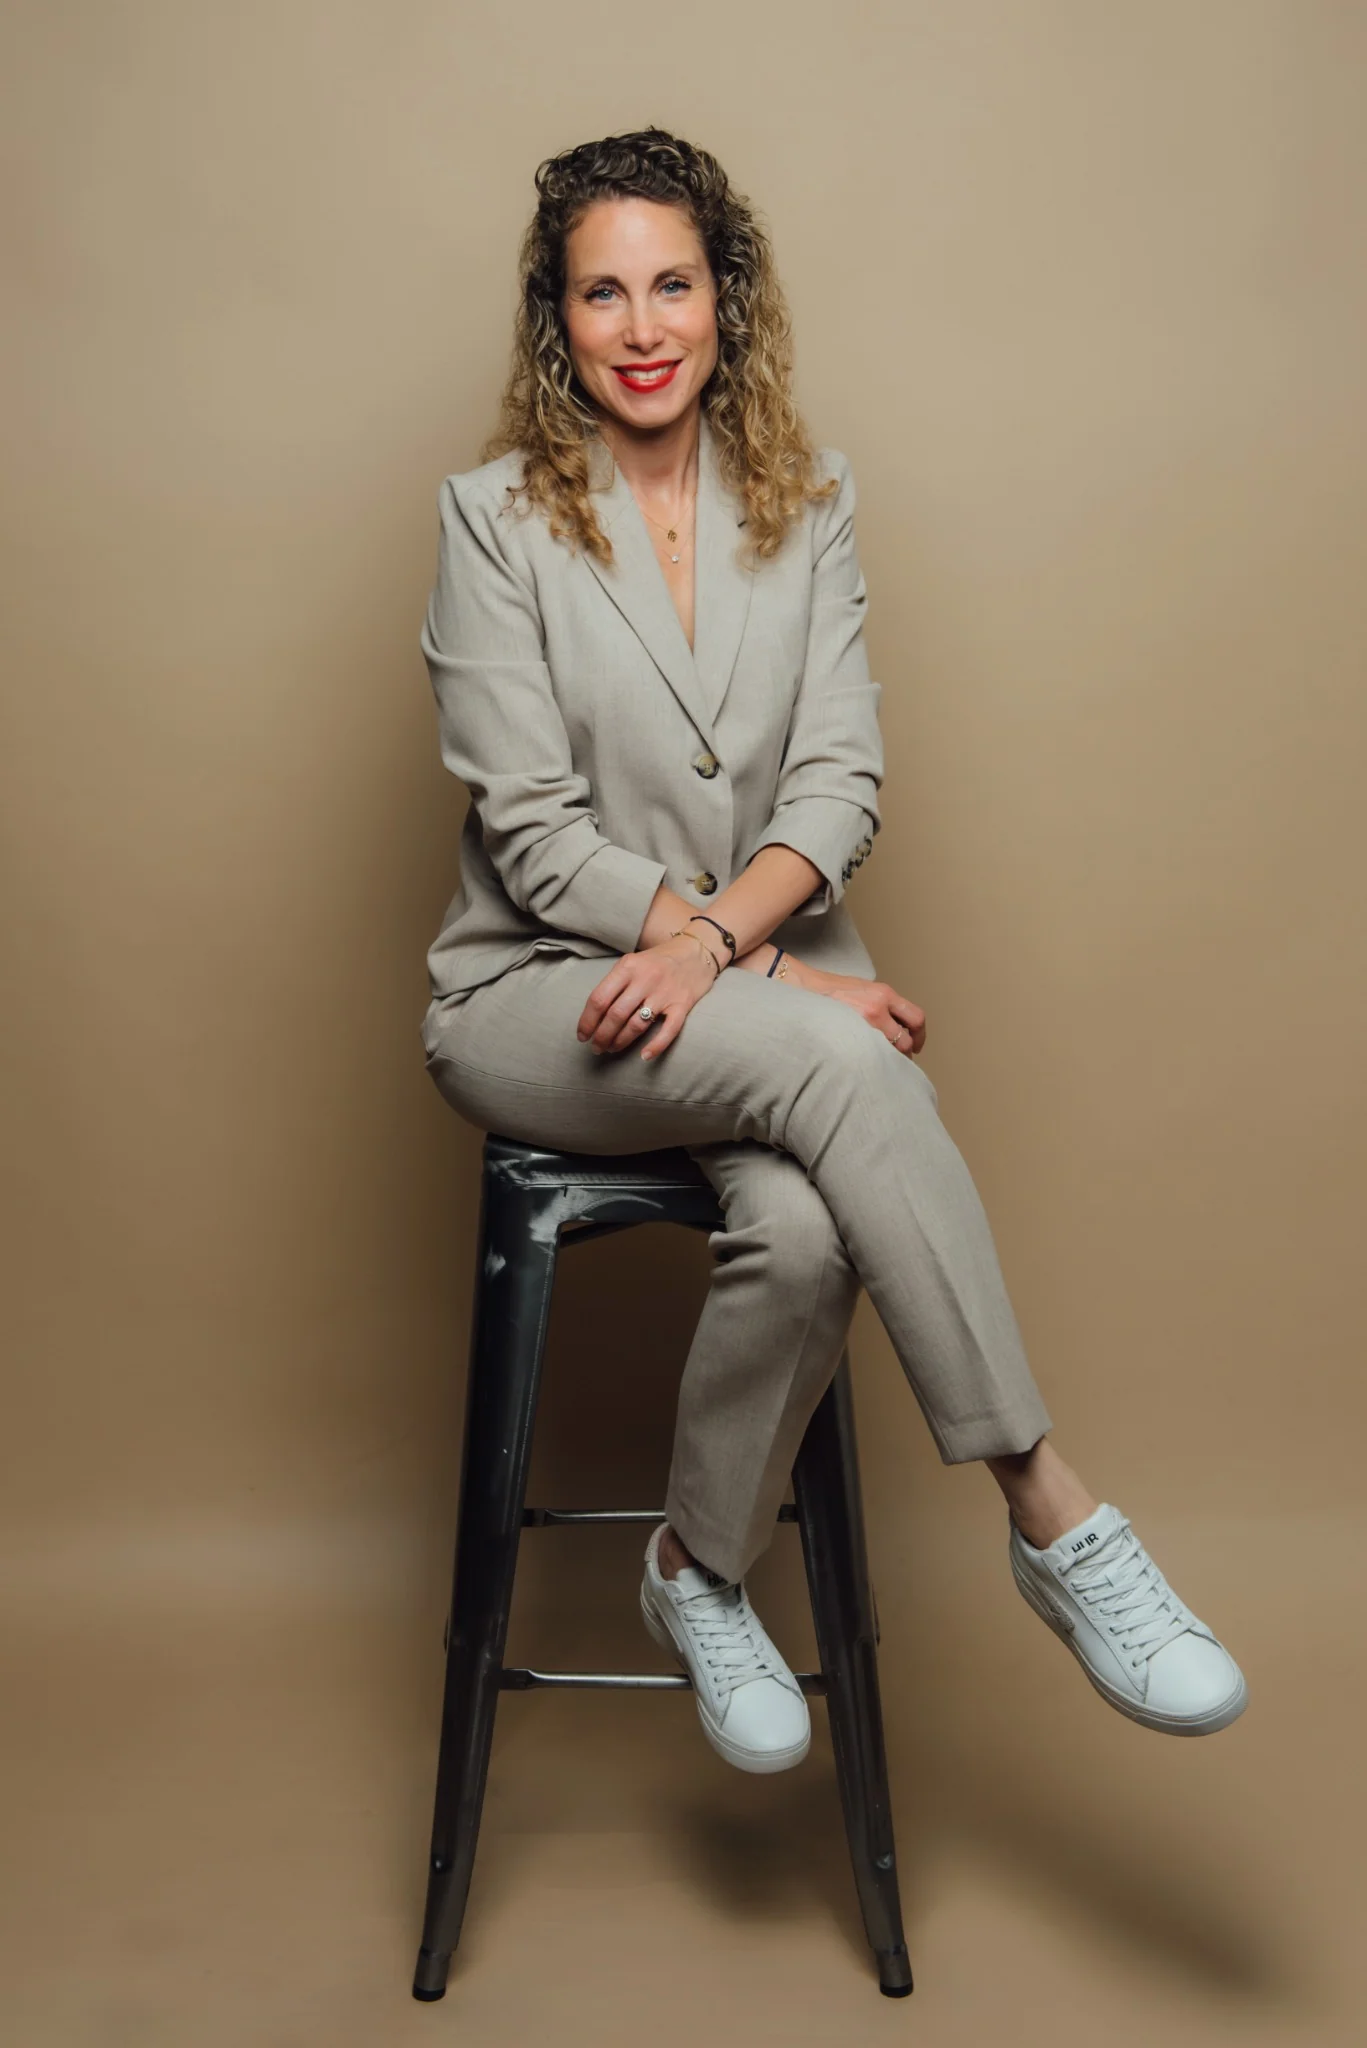
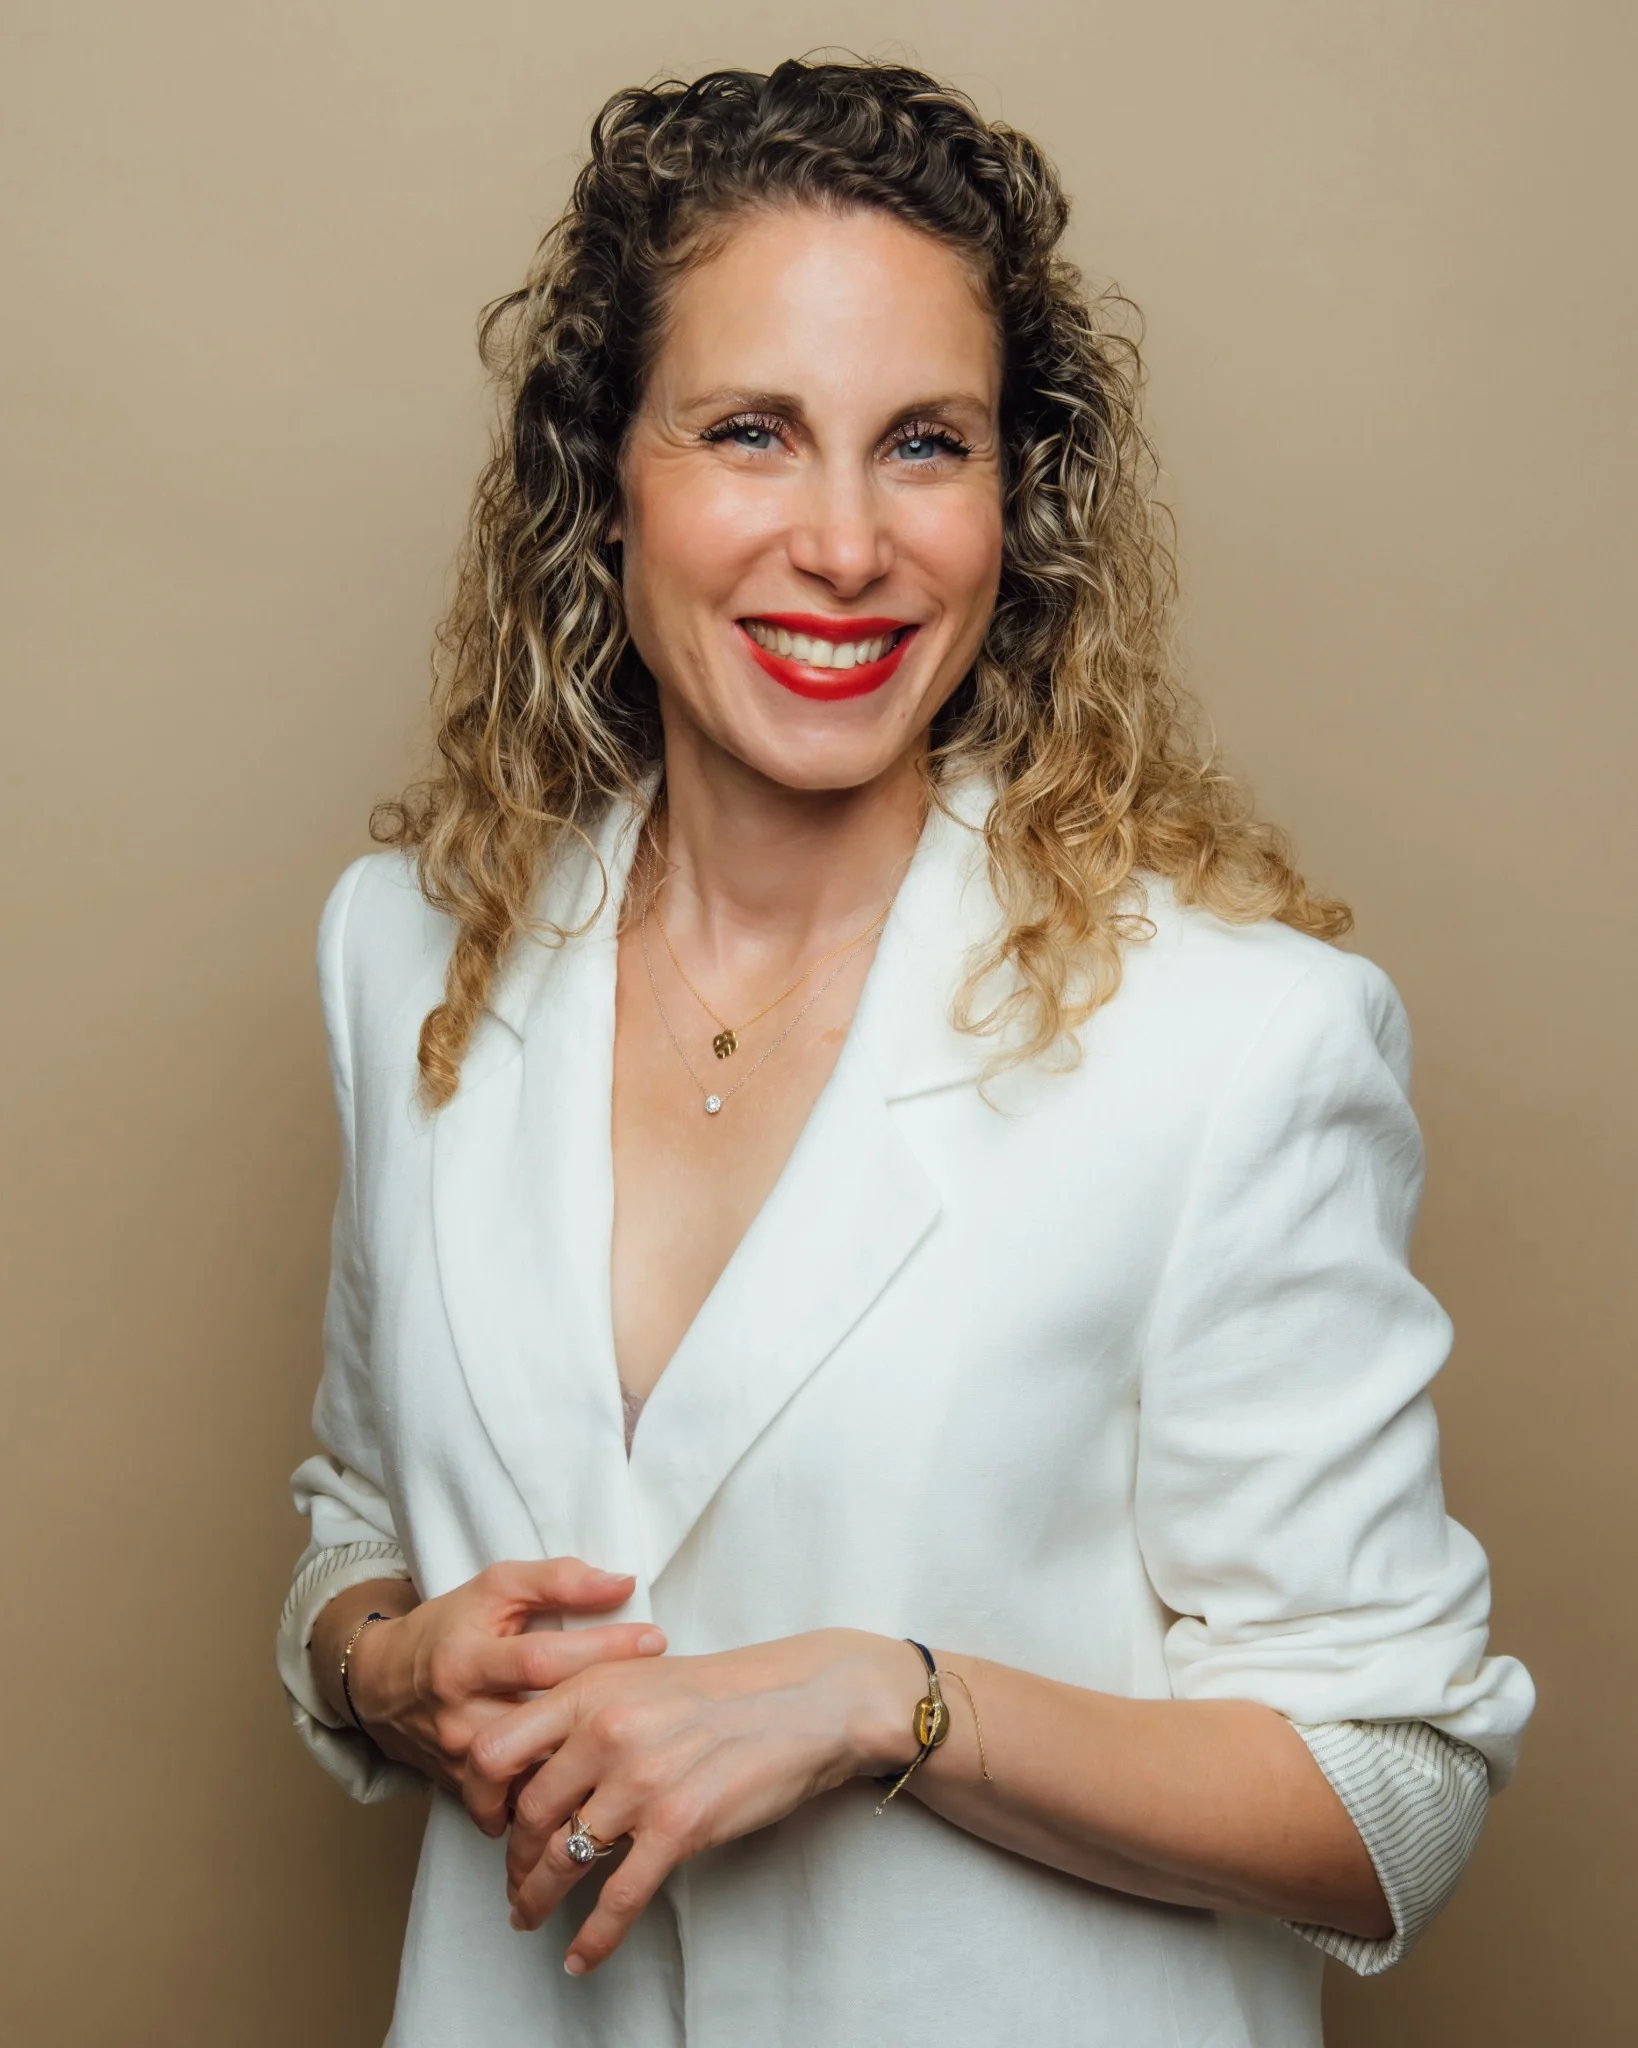
feat: Update Sandra portraits across site

diff --git a/src/app/seances/page.js b/src/app/seances/page.js
@@ -3,6 +3,7 @@
 // Imports de base : React, hooks, libraries essentielles
 import React from "react";
 import Link from "next/link";
+import Image from "next/image";
 import { SITE_URL  } from "@/config/site";
 // Bibliothèques tierces
 import { gsap } from "gsap";
@@ -45,36 +46,84 @@ export default function Seances() {
 					textColor="#000"
 					className="my-16 px-6"
 				>
-					<h2 className="text-xl font-bold mb-4">Jours de consultation et Tarifs</h2>
-					<h3 className="text-l font-bold">Jours de consultation</h3>
-					<p className="pt-5 mb-4">
-						Je vous accueille sur rendez-vous, mardi, mercredi, vendredi et samedi.<br />En présentiel, par téléphone ou en visio (WhatsApp).
-					</p>
-					<h3 className="text-l font-bold mb-4">Tarifs</h3>
-					<ul>
-						<li>Thérapie individuelle : 85 €. Un premier échange téléphonique de 30 min est offert</li>
-						<li>Thérapie de couple : 160 €</li>
-						<li>Thérapie de groupe (minimum 3 personnes) : me contacter</li>
-						<li>Thérapie famille : 180 €</li>
-					</ul>
-					<p className="pt-5">
-						Les séances peuvent se faire en cabinet ou en visioconférence
-						(WhatsApp), selon vos préférences.
-						<br />
-						Pour plus d’informations ou pour prendre rendez-vous, n’hésitez pas
-						à me contacter via le formulaire en ligne ou par téléphone au
-						<br/>06 24 18 23 02.
-					</p>
-					<Link href="/contact">
-						<Button
-							text="Me contacter"
-							textColor="#2C254D"
-							bgColor="#FFA500"
-							hoverTextColor="#2C254D"
-							hoverBgColor="#FFA500"
-							className="mt-6"
-						/>
-					</Link>
+					<div className="
+						flex flex-col
+						lg:flex-row
+						items-center
+						lg:items-start
+						gap-10 lg:gap-16
+						max-w-5xl mx-auto
+					">
+						
+						{/* Portrait */}
+						<div className="
+							relative
+							w-[220px] h-[220px]
+							md:w-[280px] md:h-[280px]
+							lg:w-[340px] lg:h-[340px]
+							shrink-0
+							overflow-hidden
+							rounded-3xl
+						">
+							<Image
+								src="/images/seances/sandra-bondon-seances.webp"
+								alt="Sandra Bondon, psychopraticienne et hypnothérapeute à Saint-Germain-en-Laye"
+								fill
+								sizes="(min-width: 1024px) 340px, (min-width: 768px) 280px, 220px"
+								className="object-cover"
+							/>
+						</div>
+
+						{/* Informations */}
+						<div className="flex-1">
+							<h2 className="text-xl font-bold mb-4">
+								Jours de consultation et Tarifs
+							</h2>
+
+							<h3 className="text-l font-bold">
+								Jours de consultation
+							</h3>
+
+							<p className="pt-5 mb-4">
+								Je vous accueille sur rendez-vous, mardi, mercredi, vendredi et samedi.
+								<br />
+								En présentiel, par téléphone ou en visio (WhatsApp).
+							</p>
+
+							<h3 className="text-l font-bold mb-4">
+								Tarifs
+							</h3>
+
+							<ul>
+								<li>Thérapie individuelle : 85 €. Un premier échange téléphonique de 30 min est offert</li>
+								<li>Thérapie de couple : 160 €</li>
+								<li>Thérapie de groupe (minimum 3 personnes) : me contacter</li>
+								<li>Thérapie famille : 180 €</li>
+							</ul>
+
+							<p className="pt-5">
+								Les séances peuvent se faire en cabinet ou en visioconférence
+								(WhatsApp), selon vos préférences.
+								<br />
+								Pour plus d’informations ou pour prendre rendez-vous, n’hésitez pas
+								à me contacter via le formulaire en ligne ou par téléphone au
+								<br />
+								06 24 18 23 02.
+							</p>
+
+							<Link href="/contact">
+								<Button
+									text="Me contacter"
+									textColor="#2C254D"
+									bgColor="#FFA500"
+									hoverTextColor="#2C254D"
+									hoverBgColor="#FFA500"
+									className="mt-6"
+								/>
+							</Link>
+						</div>
+
+					</div>
 				</FadeInSectionAnimation>
 
 				{/* Section Cabinet et Google Maps */}

diff --git a/src/app/coaching/page.js b/src/app/coaching/page.js
@@ -21,9 +21,6 @@ export default function SolutionsPourVosCollaborateurs() {
 					<p className="text-center text-xl tracking-widest text-gray-500 mb-8">
 						Sandra Bondon | Psychopraticienne - Hypnothérapeute - Coach
 					</p>
-					{/*OLD <p className="text-center font-semibold mb-12">
-  						Sandra Bondon, psychopraticienne, hypnothérapeute et coach, accompagne professionnels et particuliers en cabinet à Saint-Germain-en-Laye ou sur site.
-					</p> */}
 
 					{/* Chapeau SEO (résumé page) */}
 					<p className="text-center mb-12">
@@ -34,9 +31,17 @@ export default function SolutionsPourVosCollaborateurs() {
 
 					{/* Section 1 : Hero */}
 					<section className="flex flex-col items-center gap-6 md:flex-row md:items-start md:gap-10 md:justify-start">
-						<div className="relative w-[200px] h-[240px] md:w-[260px] md:h-[320px] lg:w-[300px] lg:h-[360px] overflow-hidden rounded-xl md:rounded-s-full shrink-0">
+						<div className="
+							relative 
+							w-[200px] h-[300px] 
+							md:w-[260px] md:h-[390px] 
+							lg:w-[300px] lg:h-[450px] 
+							overflow-hidden 
+							rounded-xl 
+							md:rounded-s-full 
+							shrink-0">
 							<Image
-								src="/images/professionnels/accompagner_collaborateurs.webp"
+								src="/images/professionnels/sandra-bondon-professionnels.webp"
 								alt="Coaching professionnel en entreprise avec Sandra Bondon à Saint-Germain-en-Laye"
 								fill
 								priority
